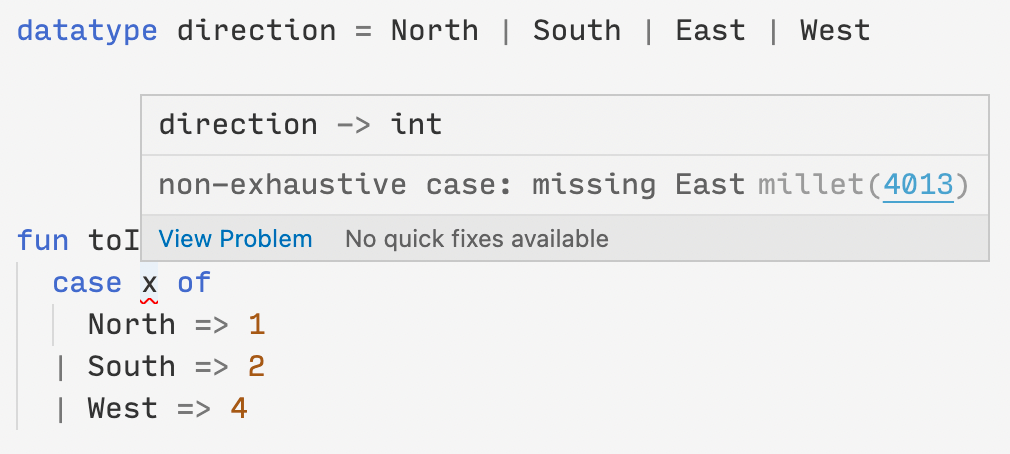
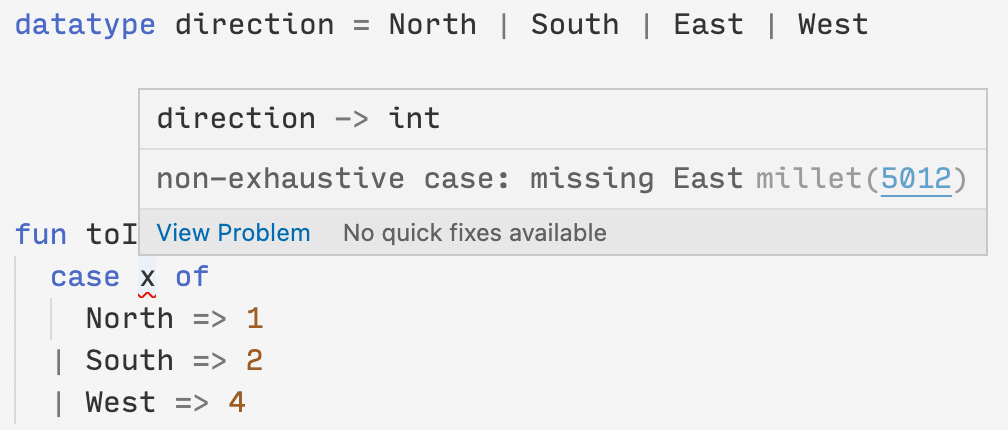
Fix error code

diff --git a/posts/en/millet.md b/posts/en/millet.md
@@ -35,7 +35,7 @@ Parse errors, type errors, and more show up directly in the editor.
 
 ![a screenshot of Millet showing an error that a function is not exhaustive](/img/millet/2-error.png)
 
-Every error has an error code. In the screenshot, that's the blue number [4013][err-4013] next to the the error message. Click it for a more detailed explanation.
+Every error has an error code. In the screenshot, that's the blue number [5012][err-5012] next to the the error message. Click it for a more detailed explanation.
 
 ### Hover for type/documentation
 
@@ -231,7 +231,7 @@ I'd like to give thanks to some folks that helped me along the way:
 [c0]: https://c0.cs.cmu.edu/docs/c0-reference.pdf
 [c0ls]: https://github.com/azdavis/c0ls
 [cm]: https://www.smlnj.org/doc/CM/new.pdf
-[err-4013]: https://github.com/azdavis/millet/blob/main/docs/errors.md#4013
+[err-5012]: https://github.com/azdavis/millet/blob/main/docs/errors.md#5012
 [for-15-150]: https://github.com/azdavis/millet/blob/main/docs/for-15-150.md
 [lang-srv]: https://microsoft.github.io/language-server-protocol/
 [naming]: https://github.com/azdavis/millet#naming
